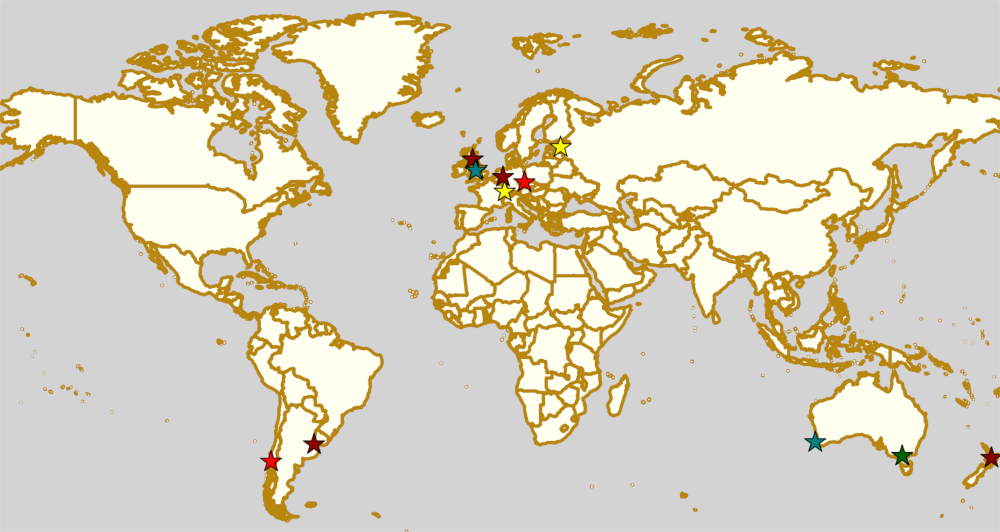
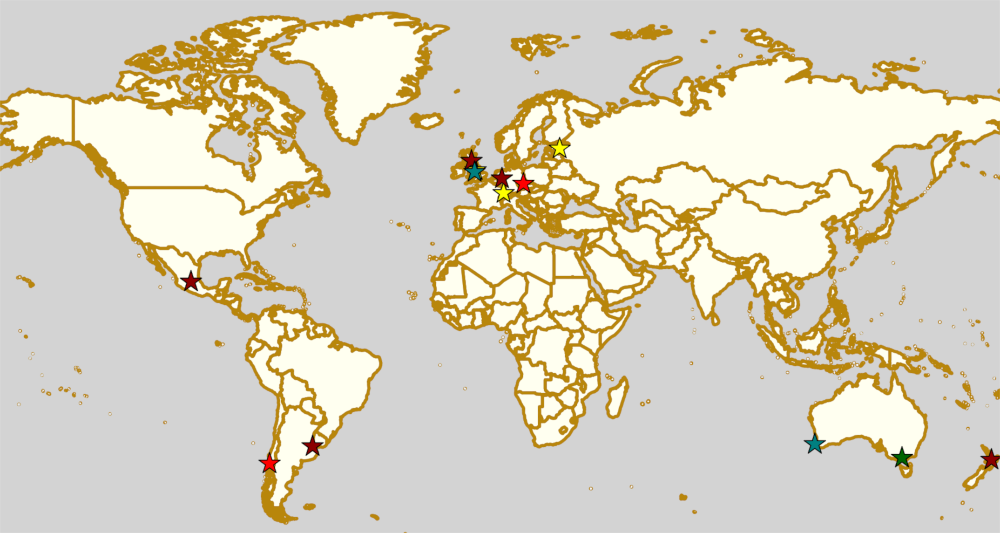
Pre-build update for weekly roundup, include late Mexico fixture

diff --git a/posts/highlights/2019/wknd-27July2019.rst b/posts/highlights/2019/wknd-27July2019.rst
@@ -276,6 +276,35 @@ Event starts: 1500 Sunday
 
 Venue: Escuela Alemania, Los Pelues, Valdivia, Chile
 
+
+Sat-Sun: Queretaro, Mexico
+--------------------------------
+
+`[FACEBOOK LINK]`__
+`[FTS LINK]`__
+
+.. __: https://www.facebook.com/events/2310791378997633/
+.. __: pending
+
+
+`Rock City Roller Derby`_ and Crows Roller Derby host "Rock City Deathmatch Vol 2", the return of the Queretaro hosted mini-tournament.
+This is an MRDA-gender policy tournament, featuring co-hosts Crows against 3 other teams in a 6-game round robin.
+
+.. _Rock City Roller Derby: https://www.instagram.com/rockcityrd/
+
+- Teams:
+
+  - Crows Roller Derby (Queretaro M)
+  - Disorder RD (CDMX M)
+  - Minotauros (CDMX M)
+  - Wheels of Mayhem (Baja California M)
+
+*FTS entries pending publication of a schedule of bouts*
+
+Event starts: 1200 Saturday
+
+Venue: Facultad de Ciencias Naturales UAQ, Avenida de las Ciencias, Queretaro, Mexico
+
 ..
   Sat-Sun:
   --------------------------------
